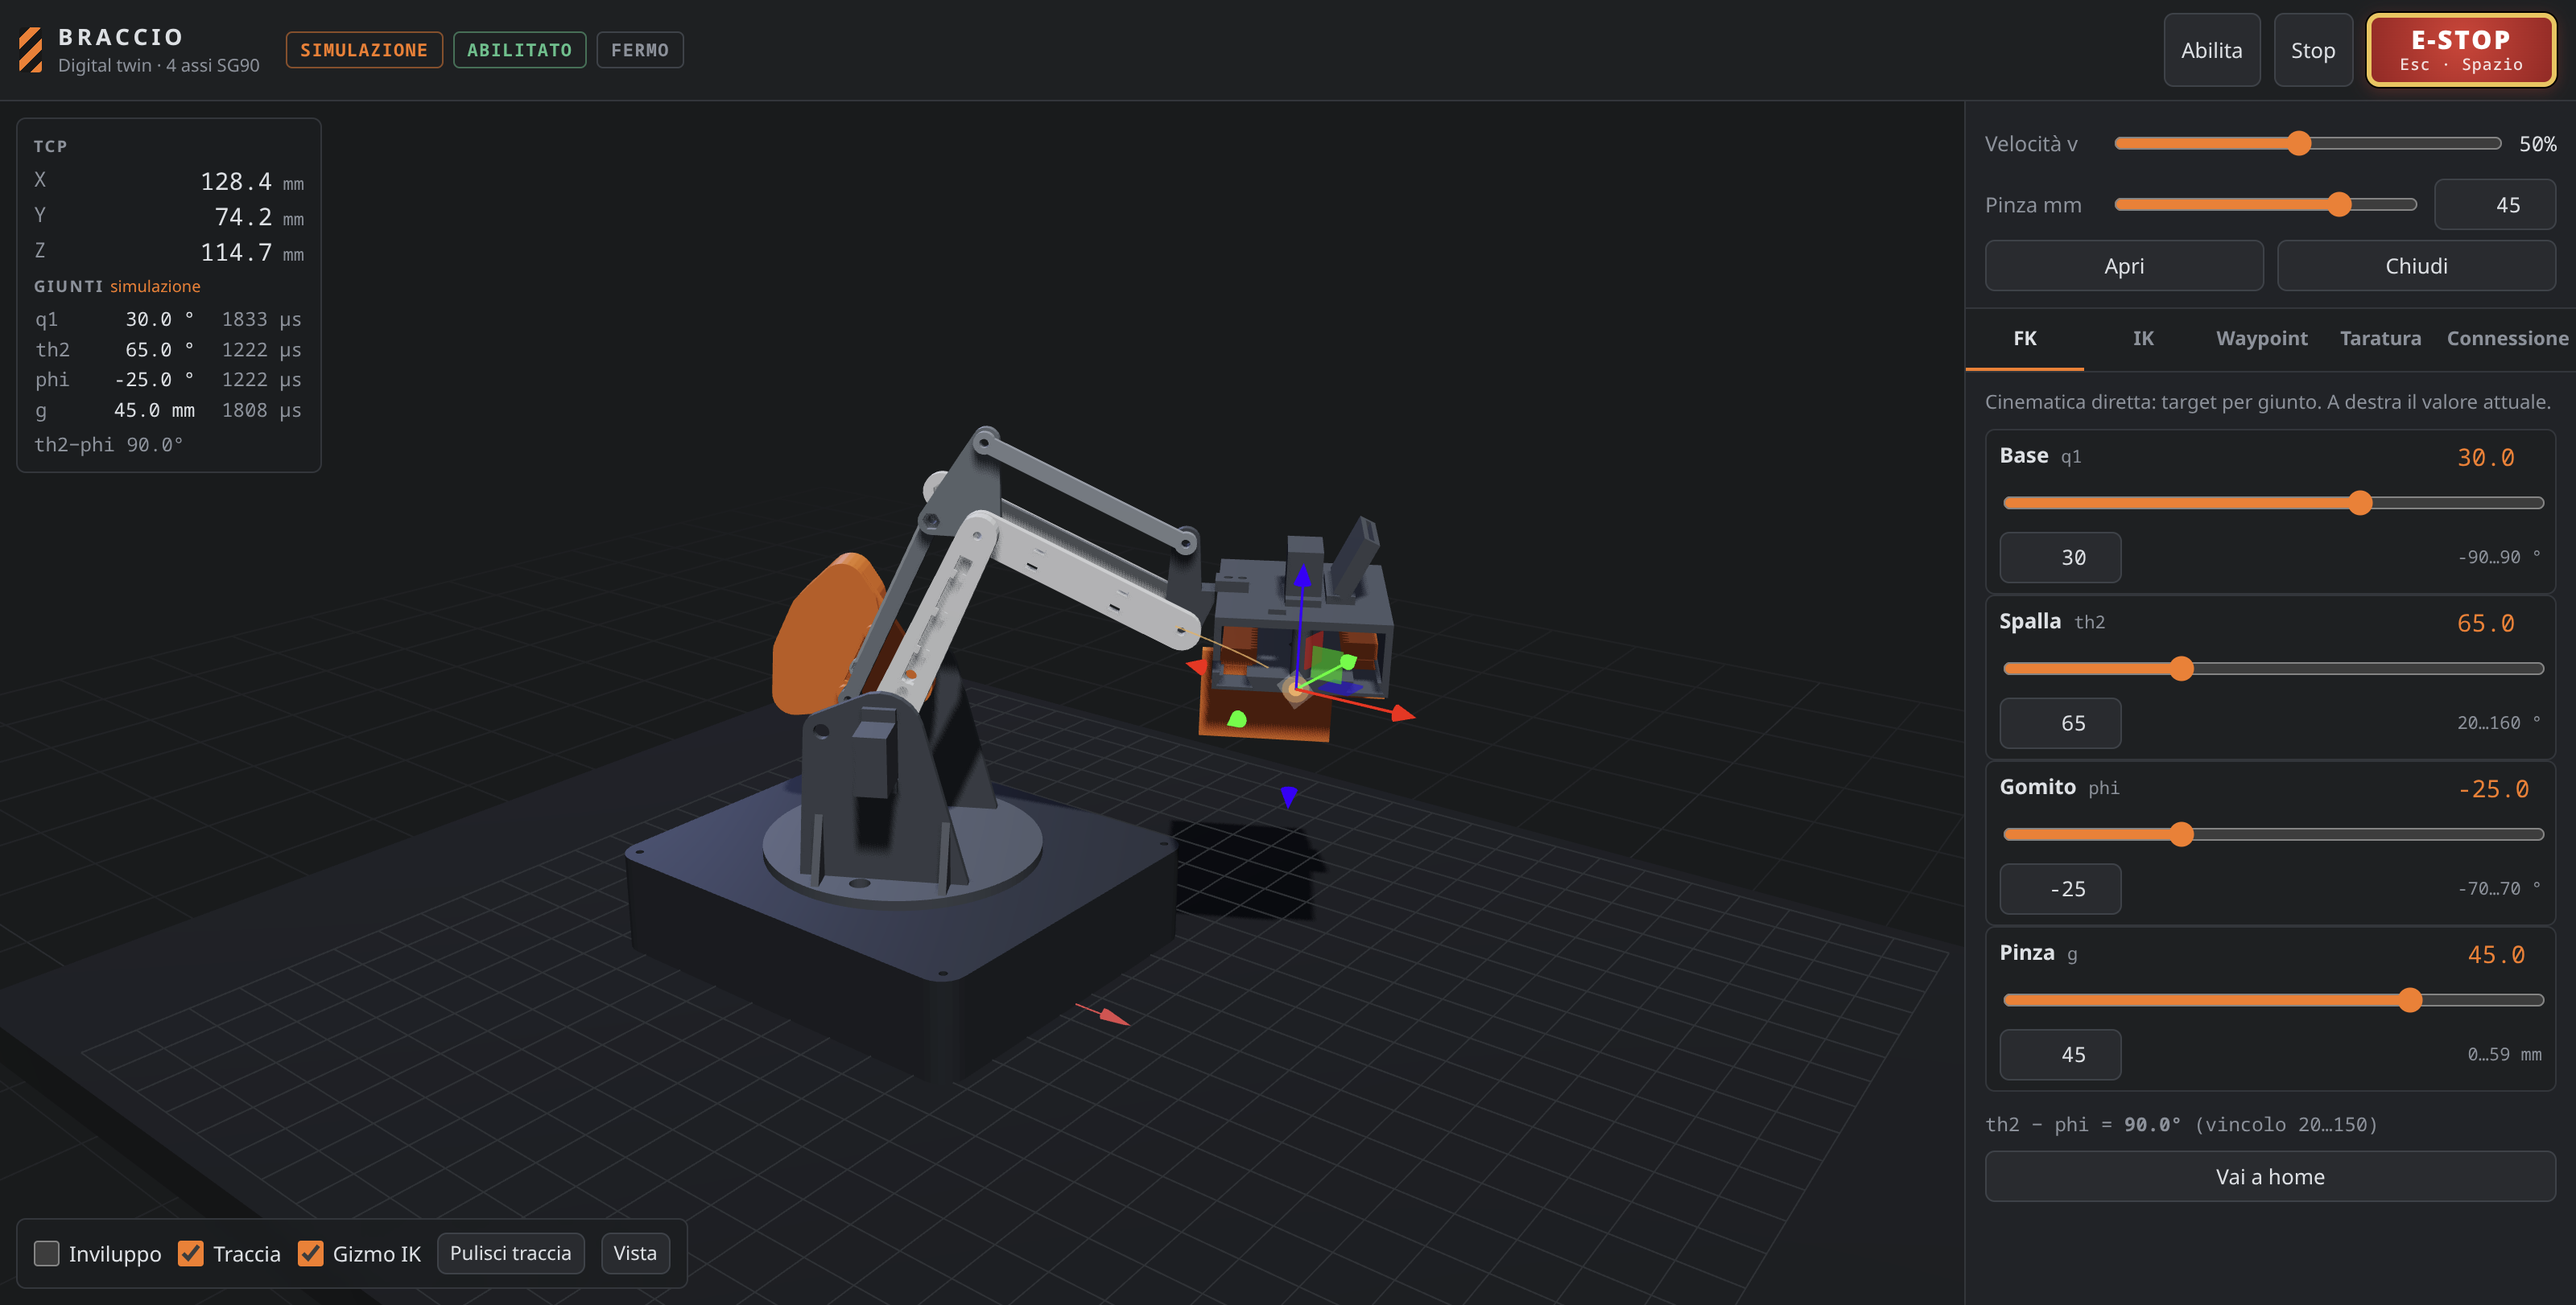
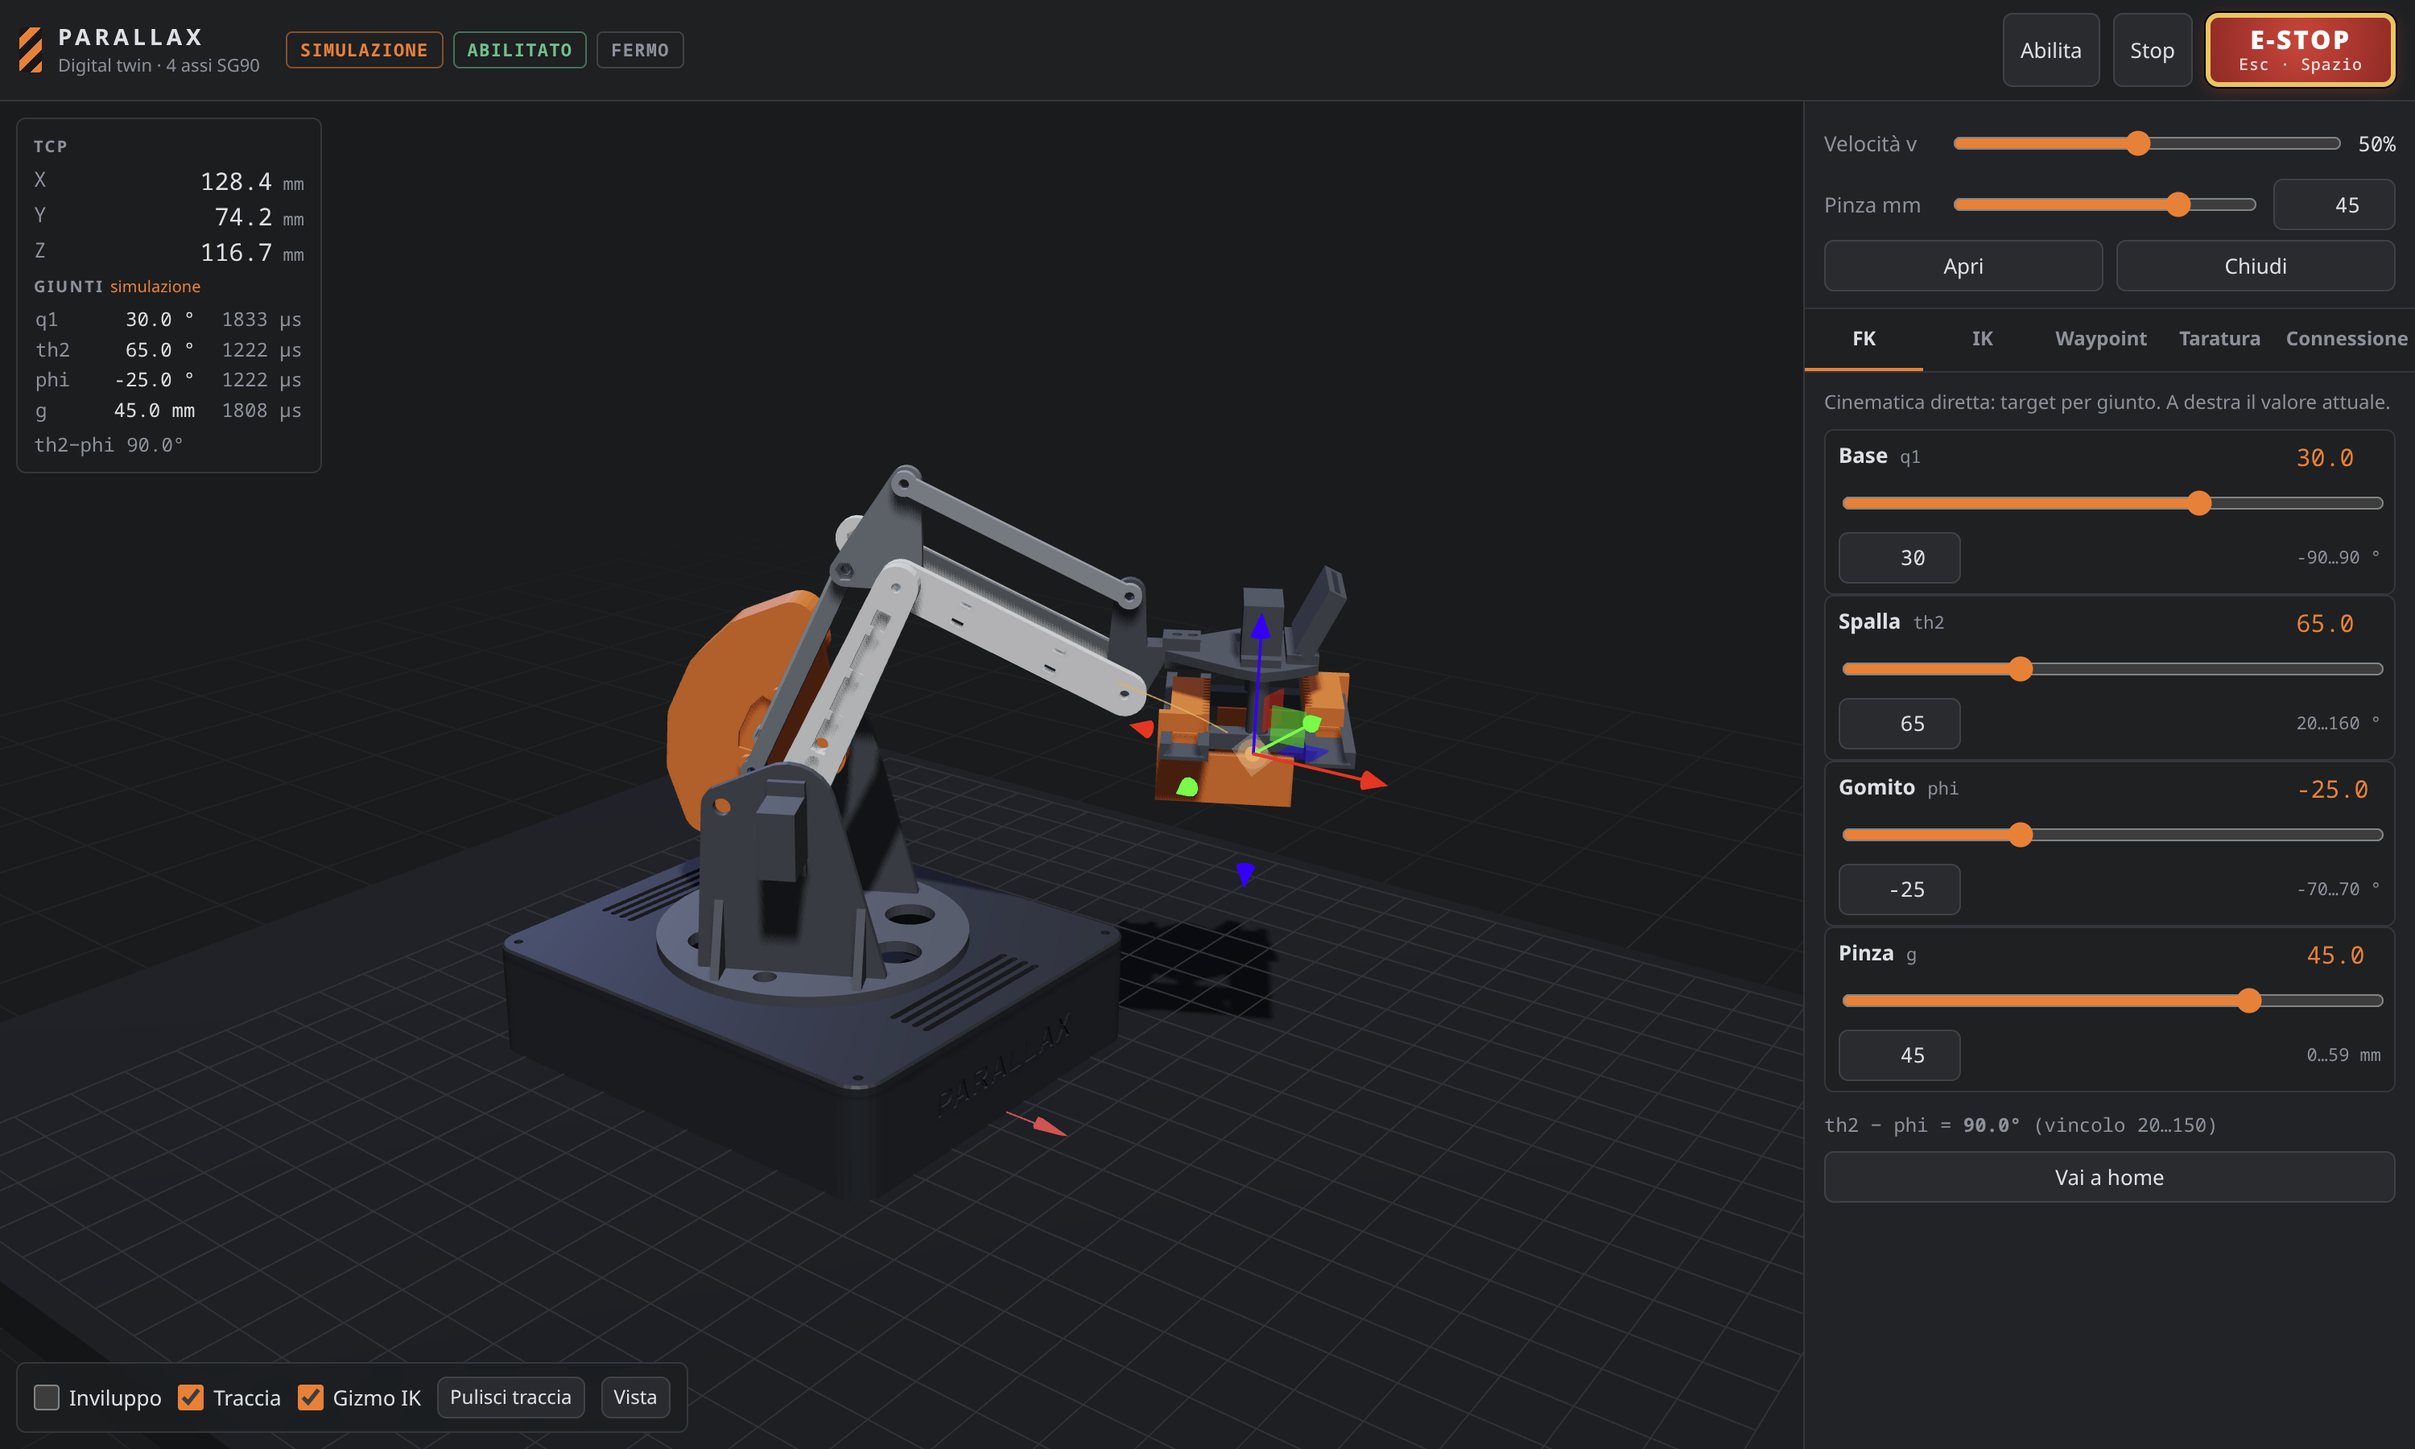
docs: coupon optional, filament and color notes

diff --git a/docs/04-stampa-e-montaggio.md b/docs/04-stampa-e-montaggio.md
@@ -1,20 +1,18 @@
 # Stampa, ferramenta e montaggio
 
-## 0. Prima di tutto: il provino
+## 0. Tolleranze (facoltativo)
 
-1. Stampa `cad/stl/00_tolerance_coupon.stl` con **lo stesso PLA e lo stesso profilo** delle parti.
-2. Riporta i valori che calzano in `cad/params.scad`:
+Le tolleranze di default in `cad/params.scad` vanno bene per una stampante tarata in PLA:
+- ±0.2 mm sui fori e nelle sedi;
+- 0.3 mm sulle guide a coda di rondine;
+- sede della squadretta con un filo di margine: tanto la tiene la vite.
 
-   | Provino | Parametro |
-   |---|---|
-   | fori M3 | `clr_hole` |
-   | sedi dado, finestre SG90, squadretta, sedi piombo | `clr_pocket` |
-   | cursori a coda di rondine | `clr_slide` |
-   | colonnine a scatto | `snap_hook` |
+Gli STL in `cad/stl/` sono **pronti da stampare così come sono**.
 
-3. Misura la tua squadretta doppia (`horn_*`) e la quota `sg_horn_face`. Per `sg_horn_face`: squadretta montata sul servo, distanza dal fondo del servo alla faccia esterna della squadretta.
-4. `cad/export.sh` rigenera tutti gli STL, i modelli del digital twin e `web/public/models/rig.json`.
-5. `python3 calc/torque.py` ricontrolla le coppie, e `cad/assembly.scad` le collisioni (vedi l'intestazione del file).
+Il provino `00_tolerance_coupon.stl` serve solo se qualcosa non calza. In quel caso:
+1. riporta i valori in `params.scad`;
+2. lancia `cad/export.sh` per rigenerare tutto (STL, twin, `rig.json`);
+3. `python3 calc/torque.py` e `cad/assembly.scad` ricontrollano coppie e collisioni.
 
 ## 1. Stampa (Kobra S1, PLA)
 
@@ -38,7 +36,14 @@ Tutti gli STL sono già orientati sul piatto.
 | 19_gripper_jaw_x2 | **2** | stesso file due volte, layer 0.16 |
 | 20_esp32cam_cradle | 1 | solo se monti la camera |
 
-Totale circa 290 g di PLA.
+Totale **circa 230 g di PLA**.
+
+Colori consigliati con la Combo:
+- **grafite** per struttura (base, torretta, pinza);
+- **arancio** per le parti in movimento (braccio, avambraccio, manovella, ganasce);
+- **grigio chiaro** per bielle e triangolo.
+
+La scritta PARALLAX sul fronte della base è incisa di 0.8 mm: con un cambio colore sugli ultimi layer viene in rilievo cromatico.
 
 ## 2. Ferramenta (tutta M3)
 

diff --git a/README.md b/README.md
@@ -45,8 +45,8 @@ docs/                 analisi, cablaggio, protocollo, stampa e montaggio
 
 ## Avvio rapido
 
-1. Stampa `cad/stl/00_tolerance_coupon.stl` e porta i valori in `cad/params.scad`, poi `cad/export.sh`.
-2. Stampa e monta: [docs/04-stampa-e-montaggio.md](docs/04-stampa-e-montaggio.md).
+1. Stampa gli STL di `cad/stl/` (circa 230 g di PLA, niente supporti) e monta: [docs/04-stampa-e-montaggio.md](docs/04-stampa-e-montaggio.md).
+2. Il provino di tolleranze è facoltativo: serve solo se qualcosa non calza.
 3. Cablaggio: [docs/02-cablaggio.md](docs/02-cablaggio.md).
 4. Carica firmware e web app:
    ```bash
@@ -71,3 +71,7 @@ cd web && npm test                        # FK/IK andata e ritorno, profilo di m
 - [02 — Cablaggio senza saldature](docs/02-cablaggio.md)
 - [03 — Cinematica, taratura e protocollo](docs/03-protocollo.md)
 - [04 — Stampa, ferramenta e montaggio](docs/04-stampa-e-montaggio.md)
+
+## Licenza
+
+MIT, vedi [LICENSE](LICENSE).
